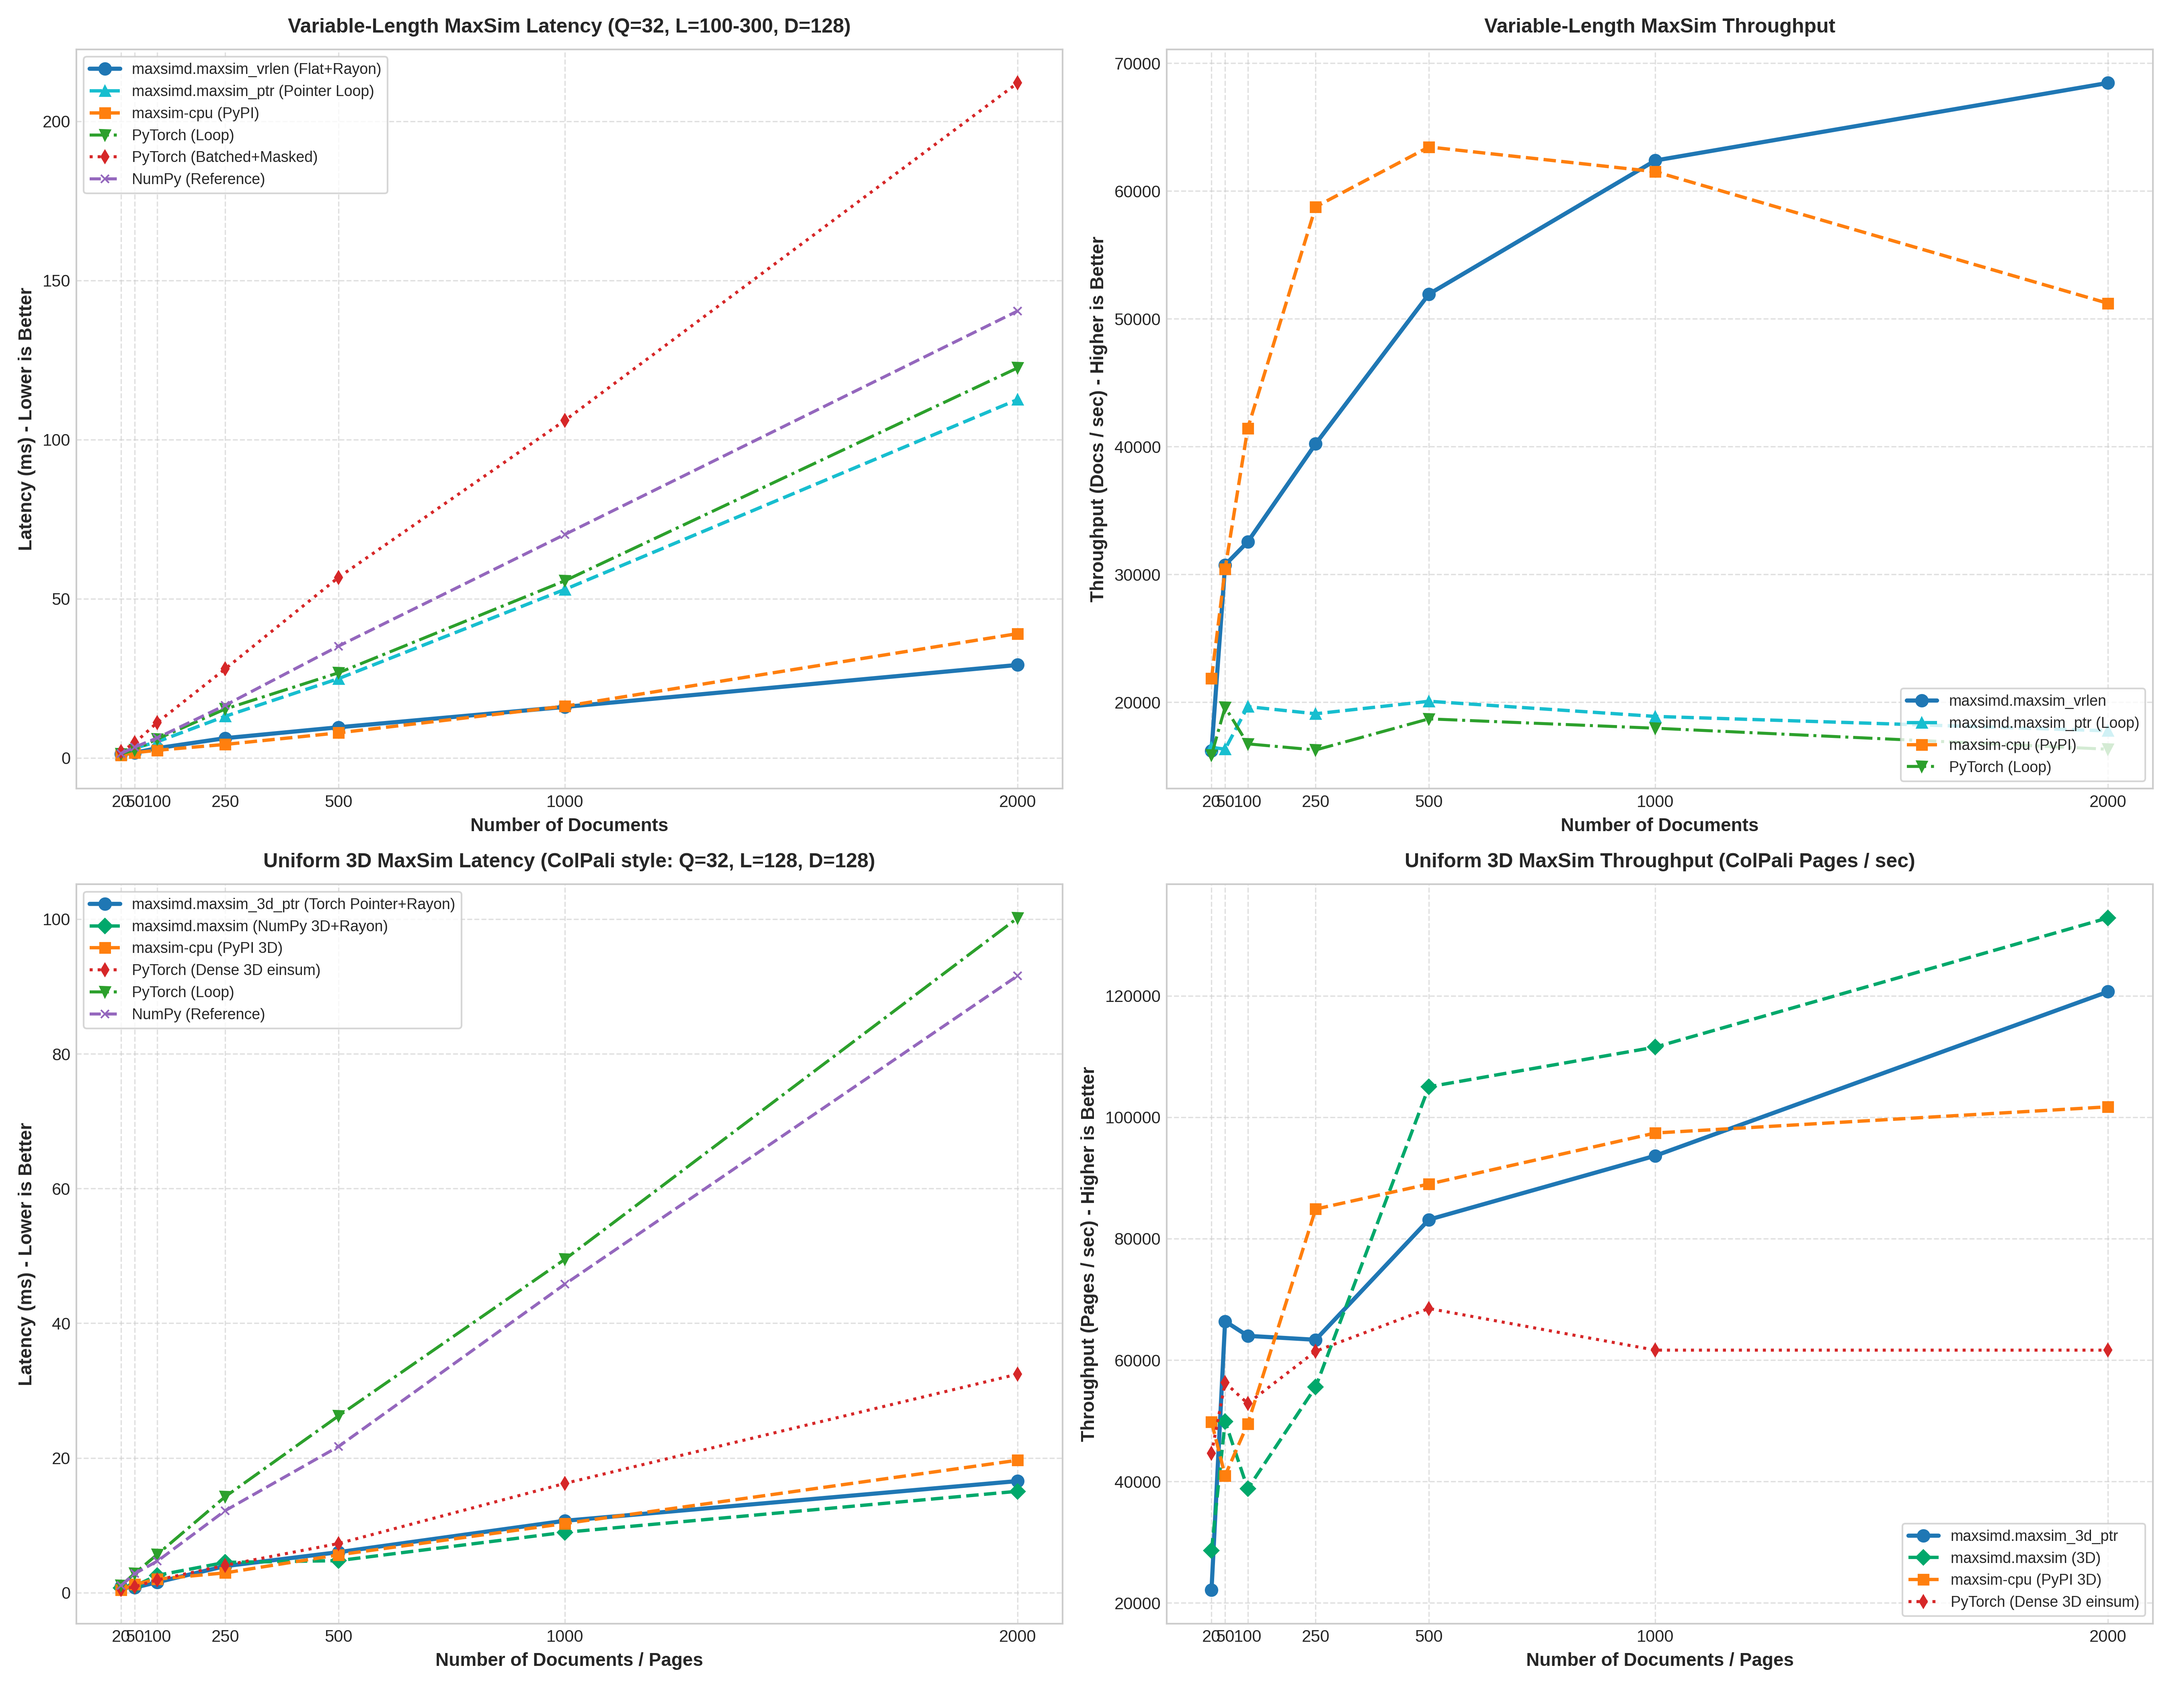
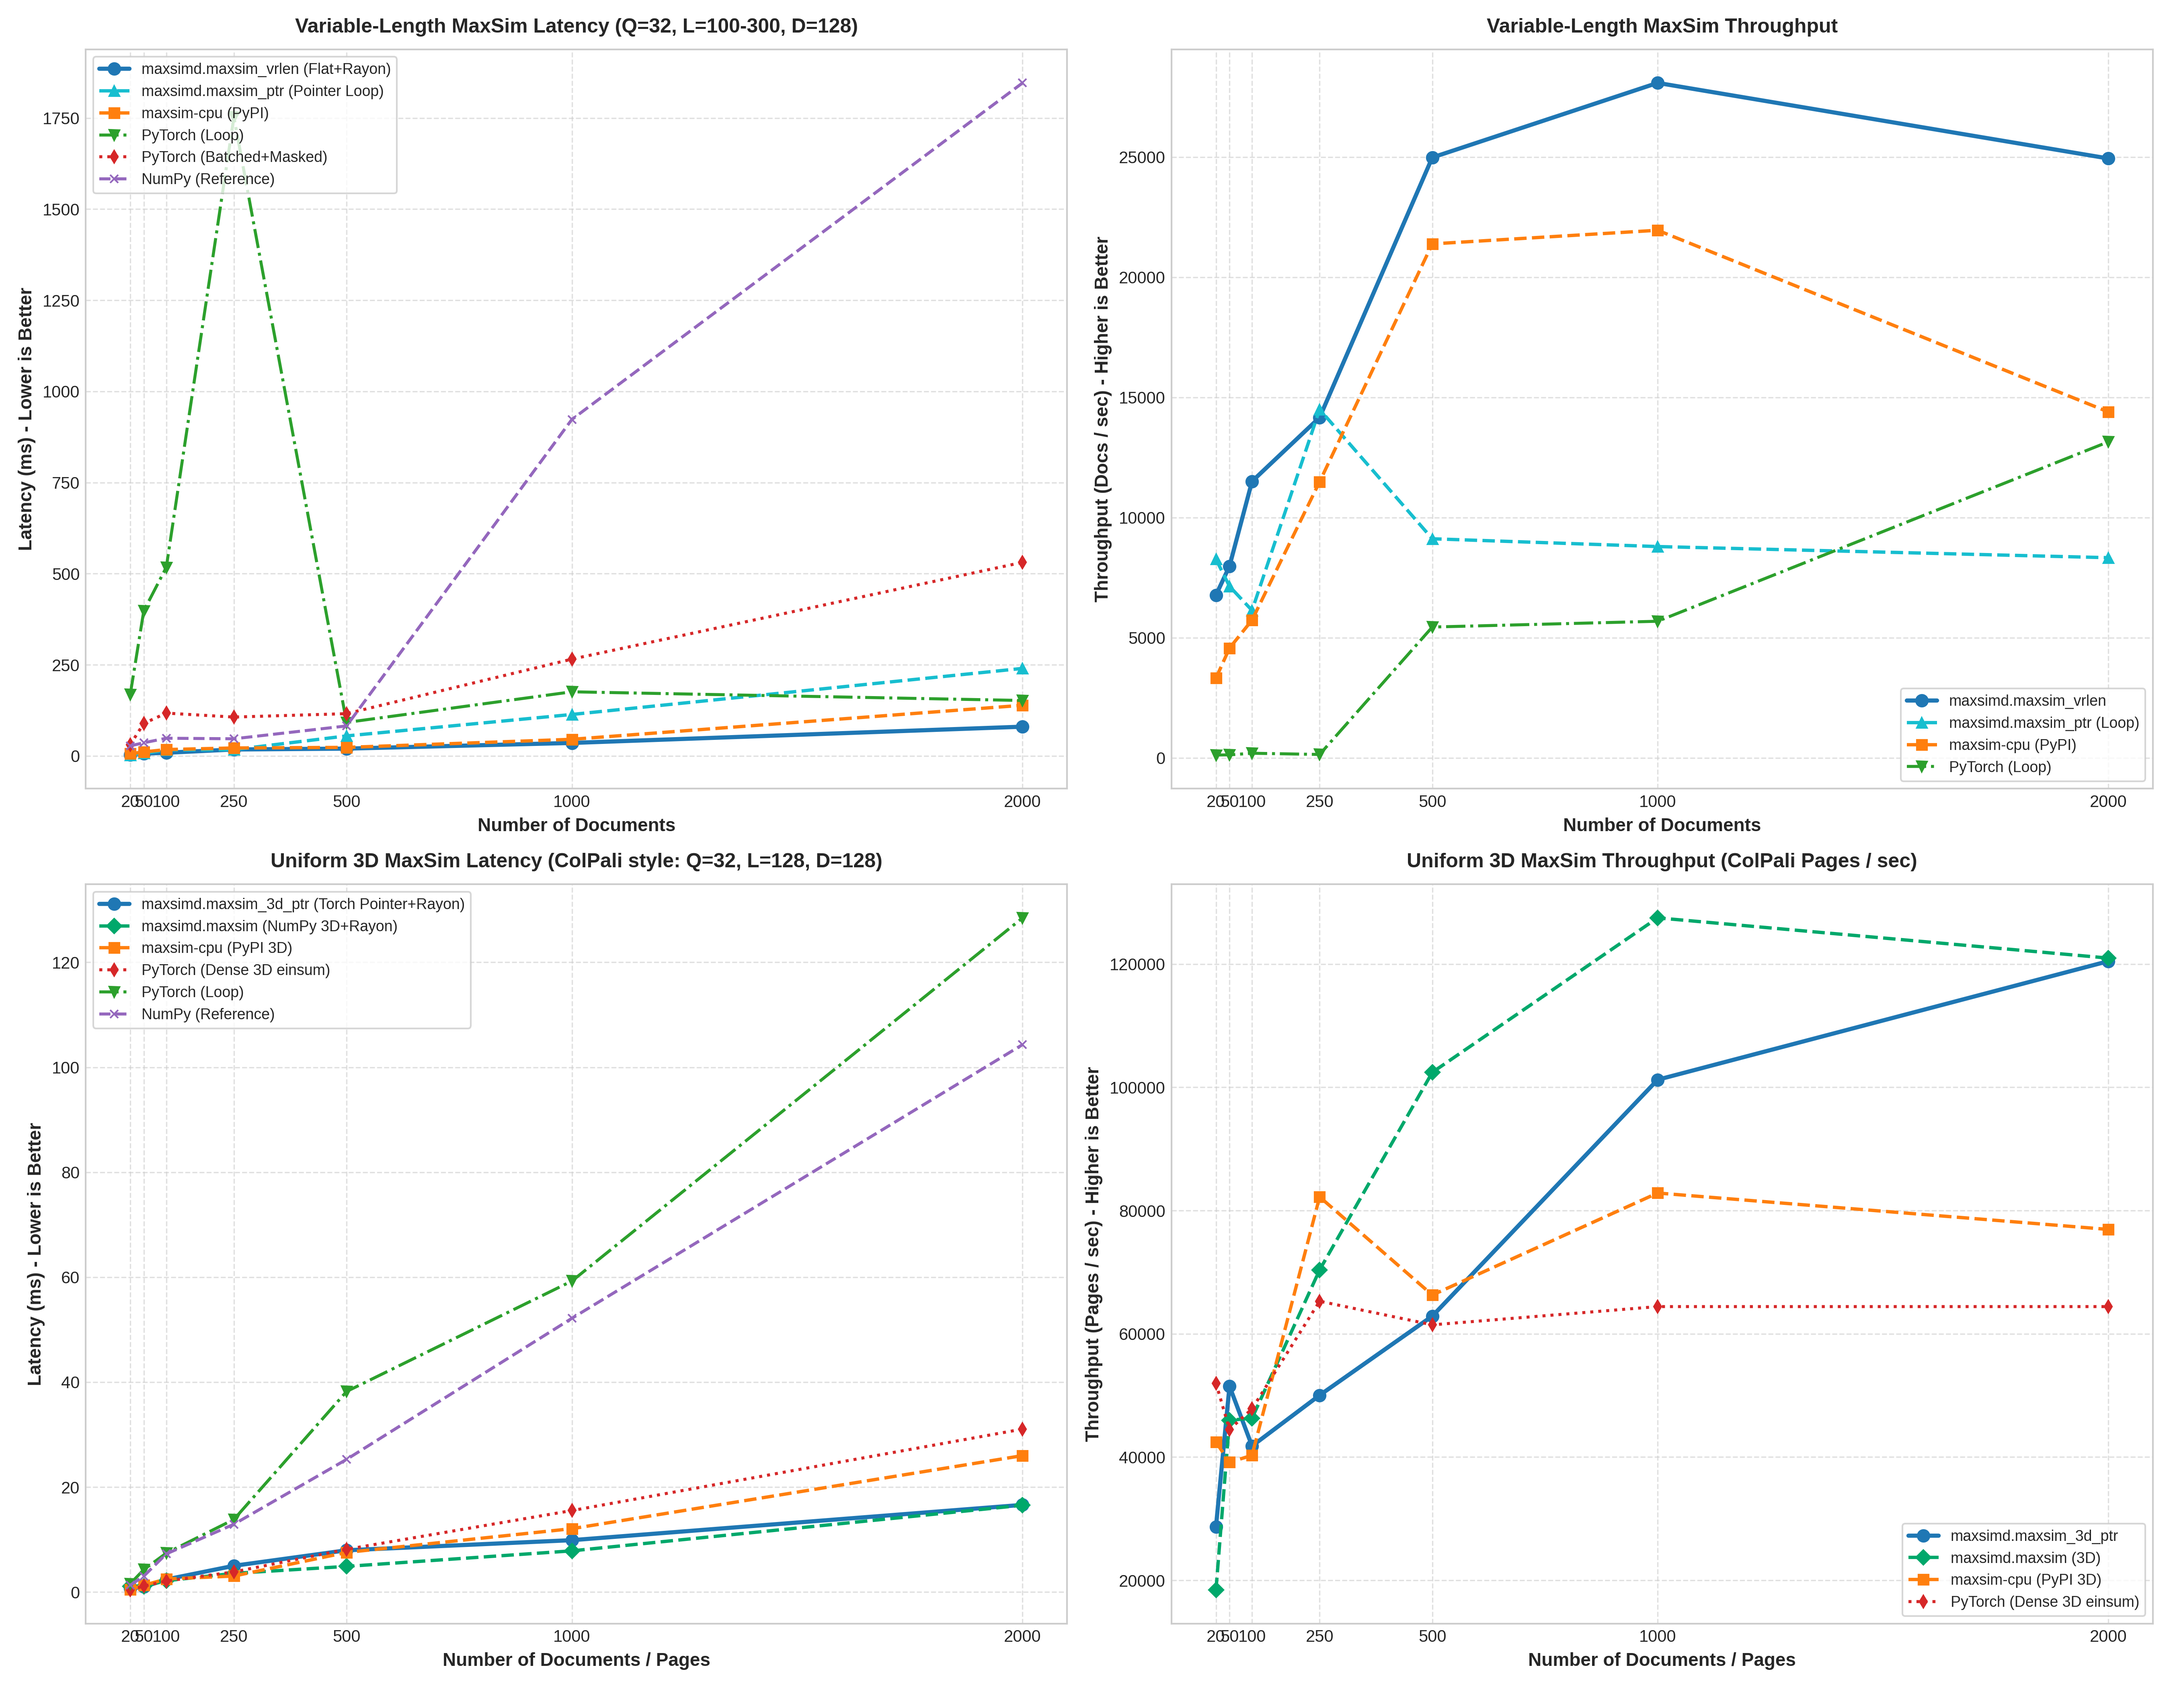
refactor(scoring): streamline MaxSim execution via raw pointer and batched 3D arrays

diff --git a/bbq/src/models/idefics3/iprocess.py b/bbq/src/models/idefics3/iprocess.py
@@ -3,7 +3,7 @@ import torch
 from PIL import Image
 from transformers import BatchEncoding, BatchFeature, Idefics3Processor
 from transformers import logging as tf_logging
-from maxsimd import maxsim_vrlen
+from maxsimd import maxsim_3d_ptr
 from bbq.src.common.base import BaseProcessor
 
 tf_logging.set_verbosity_warning()
@@ -123,7 +123,7 @@ class CIdeficsProcessor(Idefics3Processor, BaseProcessor):
         """
         Maxsim score between qs and ps
 
-        Uses maxsim_vrlen to compute the scores
+        Uses maxsim_3d_ptr for zero-copy memory pointer MaxSim scoring.
 
         Args:
             qs (Union[torch.Tensor, List[torch.Tensor]]): The queries
@@ -133,34 +133,42 @@ class CIdeficsProcessor(Idefics3Processor, BaseProcessor):
         Returns:
             torch.Tensor: The scores
         """
-        doc_lengths: List[int] = [p.shape[0] for p in ps]
-        dim: int = ps[0].shape[1]
-        d_flat = (
-            torch.cat([p.reshape(-1) for p in ps], dim=0)
-            .to(torch.float32)
-            .cpu()
-            .numpy()
-        )
+        if isinstance(qs, torch.Tensor):
+            if qs.ndim == 2:
+                qs_list = [qs]
+            elif qs.ndim == 3:
+                qs_list = [qs[i] for i in range(qs.shape[0])]
+            else:
+                qs_list = [qs]
+        else:
+            qs_list = list(qs)
 
+        if isinstance(ps, torch.Tensor):
+            if ps.ndim == 2:
+                ps_tensor = ps.unsqueeze(0).contiguous().float().cpu()
+            else:
+                ps_tensor = ps.contiguous().float().cpu()
+        elif isinstance(ps, list):
+            ps_tensor = torch.stack(ps).contiguous().float().cpu()
+        else:
+            raise ValueError(f"Unsupported passages type: {type(ps)}")
+
+        num_docs, tokens_per_doc, dim = ps_tensor.shape
         scores_list: List[List[float]] = []
-        for q in qs:
-            q_len: int = q.shape[0]
-            q_flat = q.reshape(-1).to(torch.float32).cpu().numpy()
 
-            row_scores: List[float] = []
-            offset: int = 0
-            for j in range(0, len(ps), batch_size):
-                chunk_lengths: List[int] = doc_lengths[j : j + batch_size]
-                chunk_size: int = sum(chunk_lengths) * dim
-                d_chunk = d_flat[offset : offset + chunk_size]
-                offset += chunk_size
+        for q in qs_list:
+            q_cont = q.contiguous().float().cpu()
+            q_len = q_cont.shape[0]
 
-                chunk_scores: List[float] = maxsim_vrlen(
-                    q_flat, d_chunk, chunk_lengths, q_len, dim
-                )
-                row_scores.extend(chunk_scores)
-
-            scores_list.append(row_scores)
+            scores: List[float] = maxsim_3d_ptr(
+                q_cont.data_ptr(),
+                ps_tensor.data_ptr(),
+                q_len,
+                num_docs,
+                tokens_per_doc,
+                dim,
+            )
+            scores_list.append(scores)
 
         return torch.tensor(scores_list, dtype=torch.float32)
 

diff --git a/bbq/src/server/retrieval.py b/bbq/src/server/retrieval.py
@@ -35,7 +35,8 @@ def query_indexed_documents(
     q_tensor: torch.Tensor = engine.encode_query_text_inputs([query_text])
     q_mat = q_tensor[0].cpu().float().numpy()
 
-    all_page_results = []
+    page_metadata = []
+    page_embeddings_list = []
 
     for record in completed_records:
         emb_path = record["embedding_path"]
@@ -43,33 +44,40 @@ def query_indexed_documents(
             continue
 
         doc_emb = np.load(emb_path)
+        if doc_emb.ndim == 2:
+            doc_emb = np.expand_dims(doc_emb, axis=0)
 
-        scores = maxsim(q_mat, doc_emb)
-
-        if doc_emb.ndim == 3:
-            num_pages = doc_emb.shape[0]
-            for page_idx, score in enumerate(scores):
-                all_page_results.append(
-                    {
-                        "score": float(score),
-                        "file_path": record["file_path"],
-                        "filename": os.path.basename(record["file_path"]),
-                        "file_hash": record["file_hash"],
-                        "page_number": page_idx + 1,
-                        "total_pages": num_pages,
-                    }
-                )
-        else:
-            all_page_results.append(
+        num_pages = doc_emb.shape[0]
+        for page_idx in range(num_pages):
+            page_metadata.append(
                 {
-                    "score": float(scores[0]),
                     "file_path": record["file_path"],
                     "filename": os.path.basename(record["file_path"]),
                     "file_hash": record["file_hash"],
-                    "page_number": 1,
-                    "total_pages": 1,
+                    "page_number": page_idx + 1,
+                    "total_pages": num_pages,
                 }
             )
+        page_embeddings_list.append(doc_emb)
+
+    if not page_embeddings_list:
+        return []
+
+    # Batch all document pages into a single contiguous 3D array: (total_pages, tokens_per_page, dim)
+    batched_docs_3d = (
+        page_embeddings_list[0]
+        if len(page_embeddings_list) == 1
+        else np.concatenate(page_embeddings_list, axis=0)
+    )
+
+    # Multi-core Rayon parallelized MaxSim scoring across all document pages
+    scores = maxsim(q_mat, batched_docs_3d)
+
+    all_page_results = []
+    for meta, score in zip(page_metadata, scores):
+        meta_dict = meta.copy()
+        meta_dict["score"] = float(score)
+        all_page_results.append(meta_dict)
 
     all_page_results.sort(key=lambda x: x["score"], reverse=True)
     return all_page_results[:top_k]
